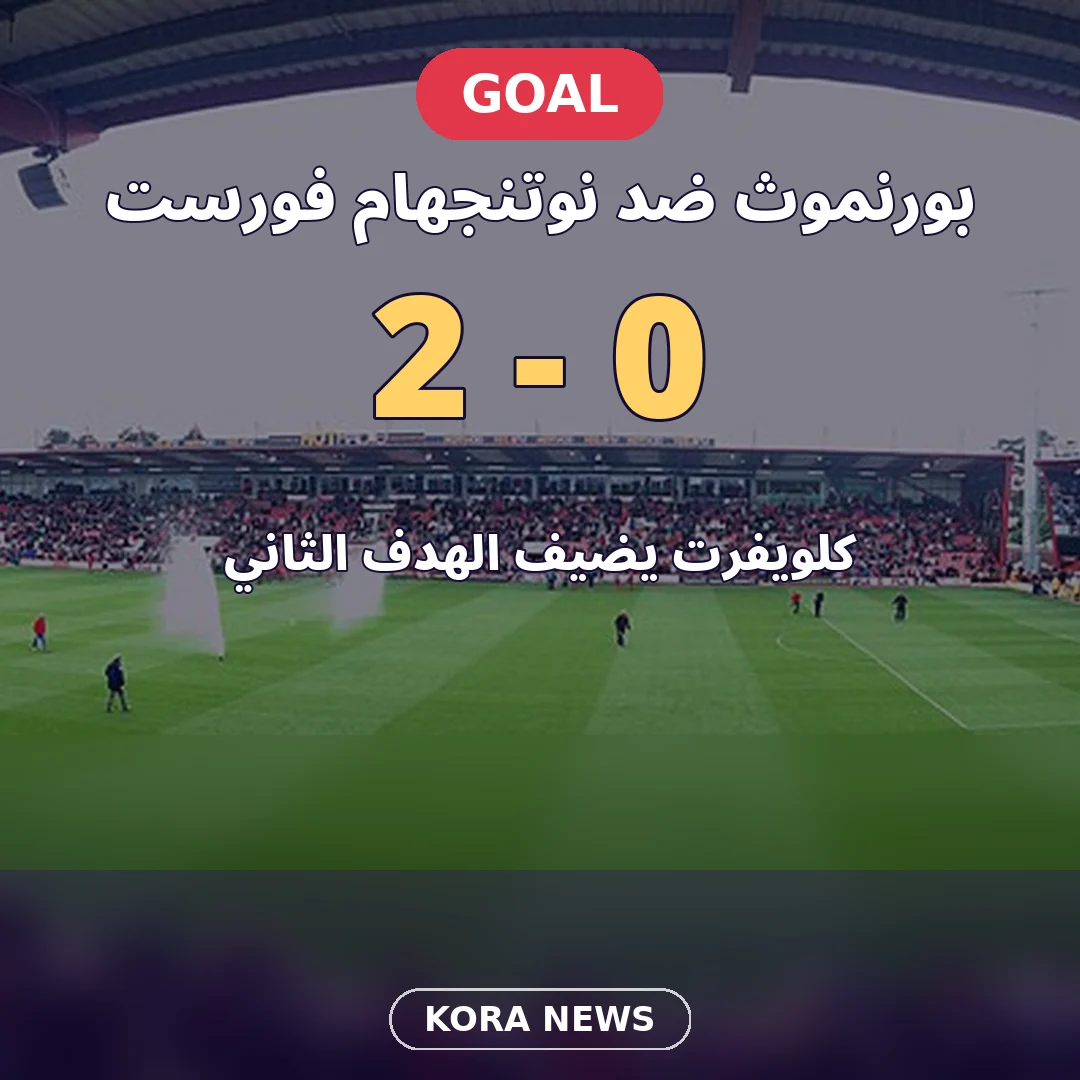
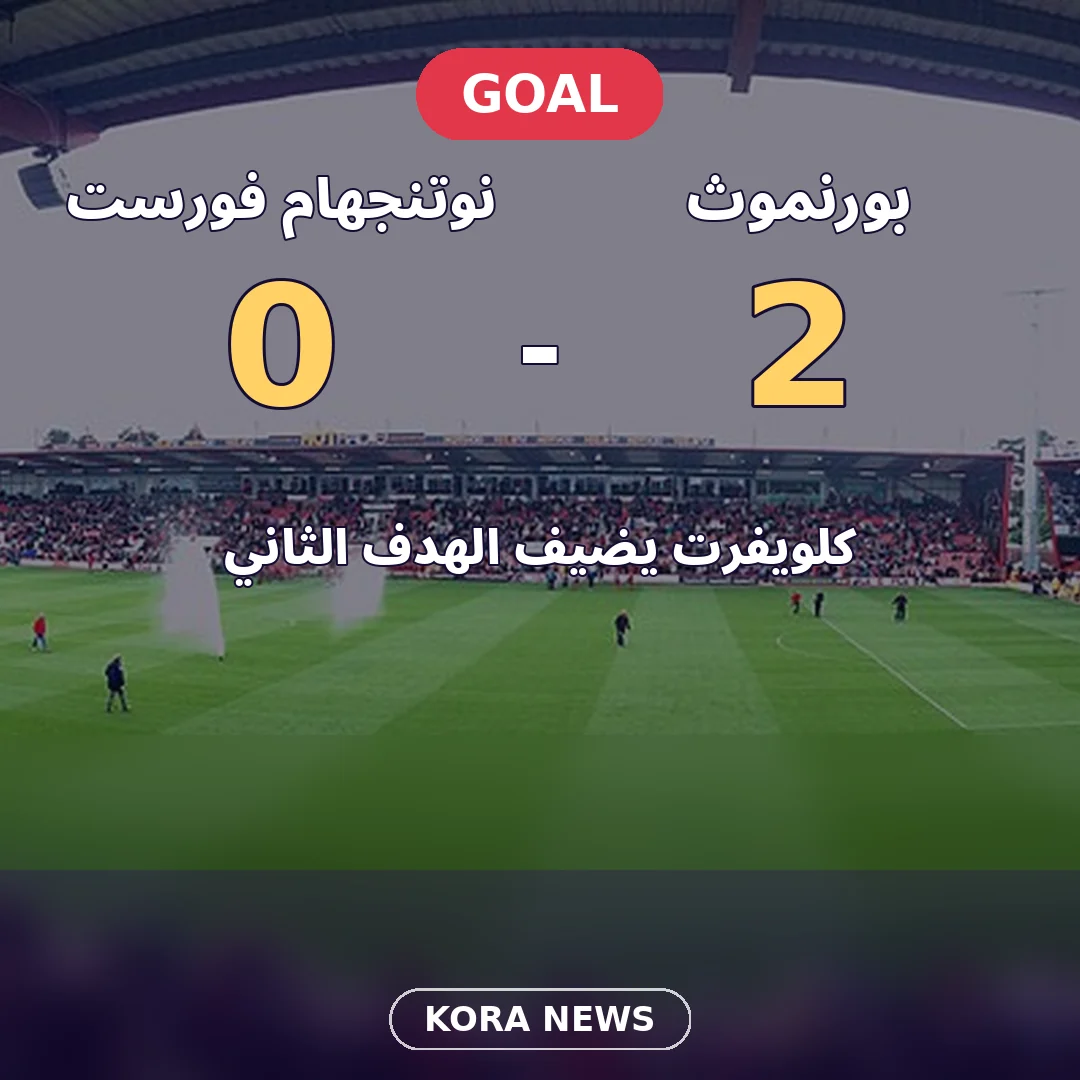
Correct score graphics with explicit team and own-score pairs

diff --git a/posts/2026-11-21-chelsea-leeds-live.md b/posts/2026-11-21-chelsea-leeds-live.md
@@ -4,7 +4,8 @@ slug: chelsea-leeds-live
 date: 2026-11-21T18:25:00+02:00
 category: الدوري الإنجليزي
 excerpt: نواه أوكافور يسجل هدفه الثاني والثالث لليدز، ليتقدم الضيوف3-1 على تشيلسي في الشوط الثاني عند التحقق18:25 القاهرة. ليست نتيجة نهائية.
-image: chelsea-leeds-live.webp
+image: chelsea-leeds-live-paired.webp
+facebook: https://www.facebook.com/61550609084848/posts/122326999076020302
 ---
 
 ## تحديث18:25 بتوقيت القاهرة

diff --git a/posts/2026-11-21-bournemouth-forest-live.md b/posts/2026-11-21-bournemouth-forest-live.md
@@ -4,7 +4,7 @@ slug: bournemouth-forest-live
 date: 2026-11-21T17:53:00+02:00
 category: الدوري الإنجليزي
 excerpt: بورنموث ينهي الشوط الأول متقدمًا2-0 على فورست بهدفَي إيفانيلسون وكلويفرت. تحقق17:53 القاهرة، ليست نتيجة نهائية.
-image: bournemouth-forest-live.webp
+image: bournemouth-forest-live-paired.webp
 facebook: https://www.facebook.com/61550609084848/posts/122326997120020302
 ---
 

diff --git a/posts/2026-11-21-coventry-palace-live.md b/posts/2026-11-21-coventry-palace-live.md
@@ -4,7 +4,7 @@ slug: coventry-palace-live
 date: 2026-11-21T17:52:00+02:00
 category: الدوري الإنجليزي
 excerpt: ستراند لارسن يسجل لبالاس في الدقيقة45+1 والتعادل2-2 مع كوفنتري، وقت التحقق17:52 القاهرة. ليست نتيجة نهائية.
-image: coventry-palace-live.webp
+image: coventry-palace-live-paired.webp
 facebook: https://www.facebook.com/61550609084848/posts/122326994594020302
 ---
 

diff --git a/posts/2026-11-21-spurs-ipswich-live.md b/posts/2026-11-21-spurs-ipswich-live.md
@@ -4,7 +4,7 @@ slug: spurs-ipswich-live
 date: 2026-11-21T18:12:00+02:00
 category: الدوري الإنجليزي
 excerpt: سولانكي يسجل هدف توتنهام الثاني أمام إيبسويتش في الشوط الثاني. التقدم2-0 وفق التحقق، وليست نتيجة نهائية.
-image: spurs-ipswich-live.webp
+image: spurs-ipswich-live-paired.webp
 facebook: https://www.facebook.com/61550609084848/posts/122326997534020302
 ---
 
